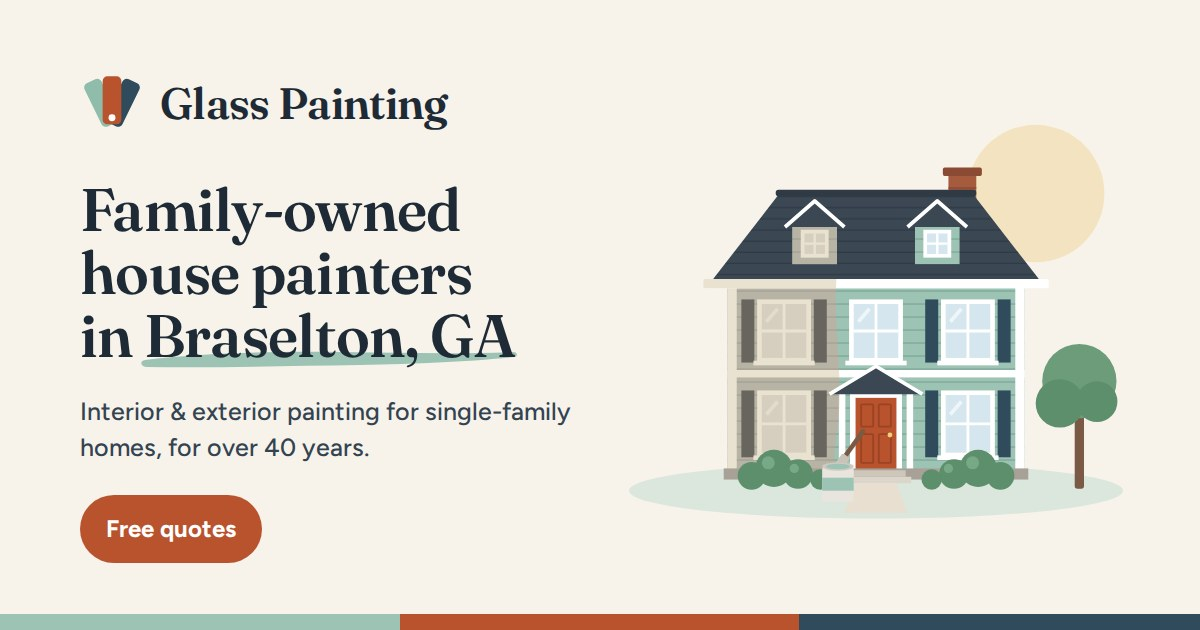
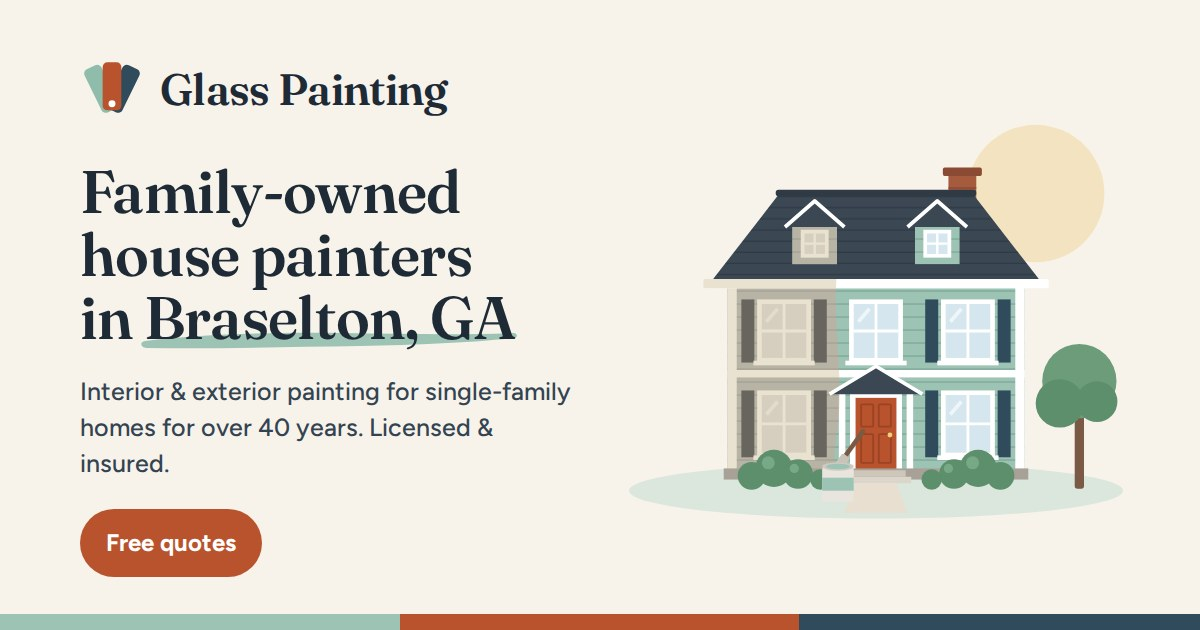
Add licensed and insured to the website
Shown in the hero checklist, the trust strip (replacing "Free quotes",
which already appears in the hero and on every quote button), a new
FAQ entry, the footer, the page descriptions, and the link-preview
image. Setup guide examples updated to match.

Claude-Session: https://claude.ai/code/session_01SyrDBr2WGKGCFWenrNU9cN

Changed region(s): [[0.0617, 0.2714, 0.4933, 0.754], [0.0617, 0.0905, 0.37, 0.2111], [0.0617, 0.7841, 0.2158, 0.9349]]

diff --git a/index.html b/index.html
@@ -4,14 +4,14 @@
   <meta charset="utf-8">
   <meta name="viewport" content="width=device-width, initial-scale=1">
   <title>Glass Painting | Family-Owned House Painters in Braselton, GA</title>
-  <meta name="description" content="Family owned for over 40 years, Glass Painting paints the interiors and exteriors of single-family homes in Braselton, GA and nearby communities. Request your free quote.">
+  <meta name="description" content="Family-owned, licensed and insured house painters serving Braselton, GA for over 40 years. Interior and exterior painting for single-family homes. Free quotes.">
   <meta name="theme-color" content="#f8f3ea">
 
   <!-- Link previews (texts, Facebook, etc.). Update the URLs if the site moves to a custom domain. -->
   <meta property="og:type" content="website">
   <meta property="og:site_name" content="Glass Painting">
   <meta property="og:title" content="Glass Painting | Family-Owned House Painters in Braselton, GA">
-  <meta property="og:description" content="Interior and exterior painting for single-family homes. Family owned for over 40 years. Free quotes.">
+  <meta property="og:description" content="Interior and exterior painting for single-family homes. Family owned for over 40 years. Licensed and insured. Free quotes.">
   <meta property="og:url" content="https://zsglass311.github.io/GlassPainting/">
   <meta property="og:image" content="https://zsglass311.github.io/GlassPainting/assets/img/og-image.jpg">
   <meta property="og:image:width" content="1200">
@@ -37,7 +37,7 @@
     "@context": "https://schema.org",
     "@type": "HousePainter",
     "name": "Glass Painting",
-    "description": "Family-owned residential painting company serving Braselton, Georgia and nearby communities for over 40 years. Interior and exterior painting for single-family homes.",
+    "description": "Family-owned, licensed and insured residential painting company serving Braselton, Georgia and nearby communities for over 40 years. Interior and exterior painting for single-family homes.",
     "url": "https://zsglass311.github.io/GlassPainting/",
     "image": "https://zsglass311.github.io/GlassPainting/assets/img/og-image.jpg",
     "telephone": "+1-770-555-0123",
@@ -71,8 +71,8 @@
     <symbol id="i-award" viewBox="0 0 24 24"><circle cx="12" cy="9" r="5.5"/><path d="m8.6 13.4-1.4 7.1L12 18l4.8 2.5-1.4-7.1"/></symbol>
     <symbol id="i-family" viewBox="0 0 24 24"><circle cx="9" cy="8" r="3.2"/><path d="M3.5 19.5c.6-3 2.8-5 5.5-5s4.9 2 5.5 5"/><circle cx="17" cy="9.5" r="2.4"/><path d="M15.6 14.3c2.3.1 4.2 1.8 4.9 4.7"/></symbol>
     <symbol id="i-home" viewBox="0 0 24 24"><path d="M3.5 10.8 12 4l8.5 6.8"/><path d="M5.5 9.5V20h13V9.5"/><path d="M10 20v-5.5h4V20"/></symbol>
-    <symbol id="i-tag" viewBox="0 0 24 24"><path d="M3.5 12.2V4.5c0-.6.4-1 1-1h7.7c.3 0 .5.1.7.3l7.3 7.3c.4.4.4 1 0 1.4l-7.7 7.7c-.4.4-1 .4-1.4 0l-7.3-7.3c-.2-.2-.3-.4-.3-.7z"/><circle cx="8" cy="8" r="1.4"/></symbol>
     <symbol id="i-sofa" viewBox="0 0 24 24"><path d="M5 11V8.5A2.5 2.5 0 0 1 7.5 6h9A2.5 2.5 0 0 1 19 8.5V11"/><path d="M3.5 11.5a1.5 1.5 0 0 1 3 0V14h11v-2.5a1.5 1.5 0 0 1 3 0V17a1 1 0 0 1-1 1h-15a1 1 0 0 1-1-1z"/><path d="M6 18v2M18 18v2"/></symbol>
+    <symbol id="i-heart" viewBox="0 0 24 24"><path d="M12 20s-7.5-4.6-7.5-10.2A4.3 4.3 0 0 1 12 7.1a4.3 4.3 0 0 1 7.5 2.7C19.5 15.4 12 20 12 20z"/></symbol>
     <symbol id="i-shield" viewBox="0 0 24 24"><path d="M12 3.2 5 6v5.6c0 4.2 2.9 7.9 7 9.2 4.1-1.3 7-5 7-9.2V6l-7-2.8z"/><path d="m9 12 2.2 2.2L15.5 10"/></symbol>
     <symbol id="i-roller" viewBox="0 0 24 24"><rect x="3" y="3.5" width="14" height="6" rx="1.8"/><path d="M17 6.5h2.2c.7 0 1.3.6 1.3 1.3v2.9c0 .7-.6 1.3-1.3 1.3H12v2.5"/><rect x="10.3" y="14.5" width="3.4" height="6.5" rx="1.2"/></symbol>
     <symbol id="i-chat" viewBox="0 0 24 24"><path d="M4 5.5A1.5 1.5 0 0 1 5.5 4h13A1.5 1.5 0 0 1 20 5.5v9a1.5 1.5 0 0 1-1.5 1.5H10l-4.5 4v-4h0A1.5 1.5 0 0 1 4 14.5z"/><path d="M8 9h8M8 12h5"/></symbol>
@@ -137,6 +137,7 @@
             <li><svg aria-hidden="true"><use href="#i-check"/></svg>Free, no-obligation quotes</li>
             <li><svg aria-hidden="true"><use href="#i-check"/></svg>Single-family homes only</li>
             <li><svg aria-hidden="true"><use href="#i-check"/></svg>Interior &amp; exterior</li>
+            <li><svg aria-hidden="true"><use href="#i-check"/></svg>Licensed &amp; insured</li>
           </ul>
         </div>
 
@@ -312,8 +313,8 @@
           <div><strong>Homes only</strong><span>Single-family interiors &amp; exteriors</span></div>
         </li>
         <li class="trust-item">
-          <span class="trust-icon"><svg aria-hidden="true"><use href="#i-tag"/></svg></span>
-          <div><strong>Free quotes</strong><span>No pressure and no obligation</span></div>
+          <span class="trust-icon"><svg aria-hidden="true"><use href="#i-shield"/></svg></span>
+          <div><strong>Licensed &amp; insured</strong><span>Protection for you and your home</span></div>
         </li>
       </ul>
     </section>
@@ -391,7 +392,7 @@
 
           <ul class="values">
             <li class="value">
-              <svg aria-hidden="true"><use href="#i-shield"/></svg>
+              <svg aria-hidden="true"><use href="#i-heart"/></svg>
               <h3>Respect for your home</h3>
               <p>Furniture, floors, and landscaping protected, and work areas cleaned up every day.</p>
             </li>
@@ -517,6 +518,10 @@
           <details class="faq-item">
             <summary>Is the quote really free?</summary>
             <p>Yes. We'll come look at your project and give you a quote at no cost and with no obligation.</p>
+          </details>
+          <details class="faq-item">
+            <summary>Are you licensed and insured?</summary>
+            <p>Yes. Glass Painting is licensed and insured, so you and your home are protected while we work.</p>
           </details>
           <details class="faq-item">
             <summary>Do you paint commercial buildings or apartments?</summary>
@@ -696,7 +701,7 @@
       </div>
       <div class="footer-bottom">
         <p>&copy; <span id="year">2026</span> Glass Painting. All rights reserved.</p>
-        <p>Residential painting &middot; Interior &amp; exterior</p>
+        <p>Licensed &amp; insured &middot; Interior &amp; exterior</p>
       </div>
     </div>
   </footer>

diff --git a/README.md b/README.md
@@ -230,7 +230,7 @@ Just tell Claude what you'd like changed, in plain English. For example:
 - "Here are photos of our work. Add a gallery."
 - "Change the service area to these towns: …"
 - "Add this review from a customer: …"
-- "We're licensed and insured. Add that to the site."
+- "Add our business hours: Monday to Friday, 8 to 5."
 
 When Claude is done, it will either update the site directly or send you a link to a **pull request** (a proposed change waiting for your okay). To approve one, open the link, click the green **Merge pull request** button, then **Confirm merge**. Your live website updates within a couple of minutes.
 
@@ -243,7 +243,7 @@ Claude wrote the text from what you shared. Let Claude know about anything that 
 - **Services:** the interior and exterior lists (for example, "Drywall patching" or "Porches, columns & railings"). Remove anything you don't do.
 - **Service area:** the list of towns is Claude's best guess at your area. Tell Claude the towns you actually serve.
 - **Our story and promises:** the "Our story" section and phrases like "work areas cleaned up every day." Make sure they sound like you and match how you work.
-- **Worth adding if true:** licensed and insured, a warranty on your work, real customer reviews, and real photos of your work. Photos make the biggest difference of all.
+- **Worth adding if true:** a warranty on your work, real customer reviews, and real photos of your work. Photos make the biggest difference of all.
 
 ---
 
